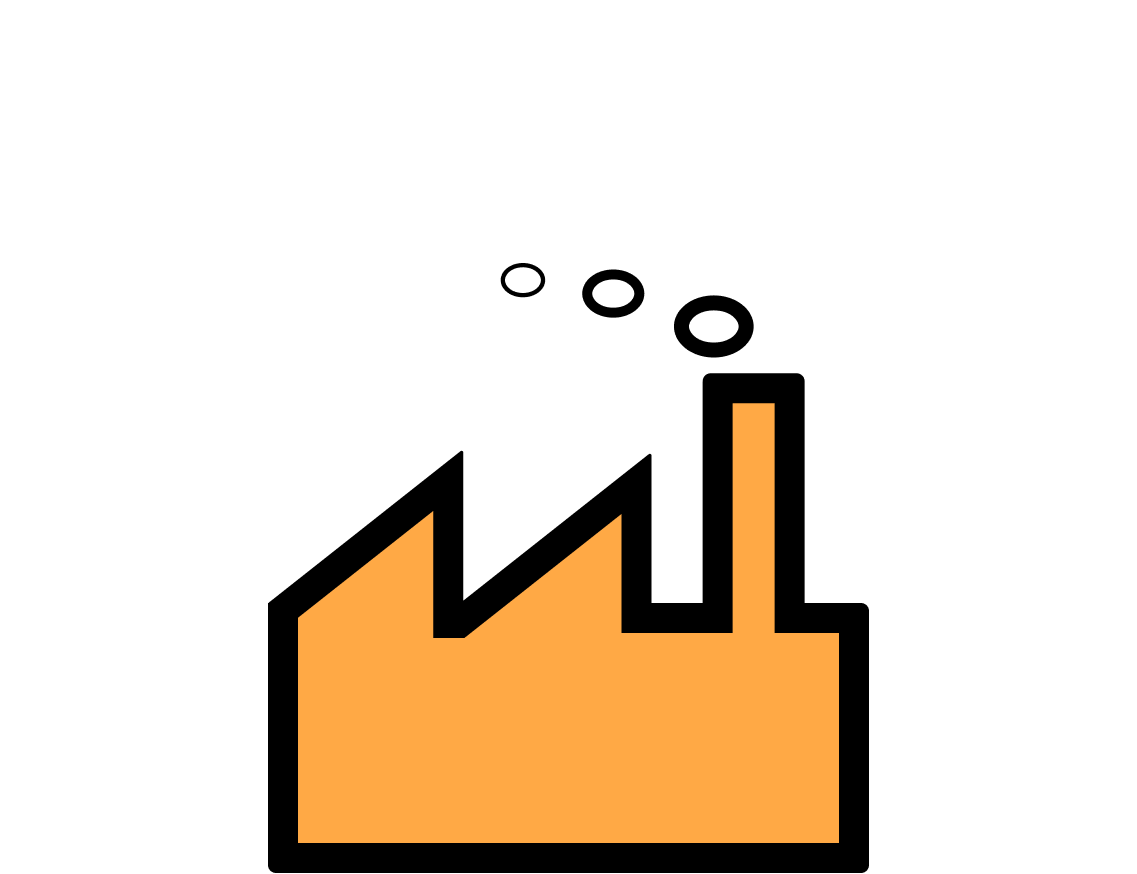
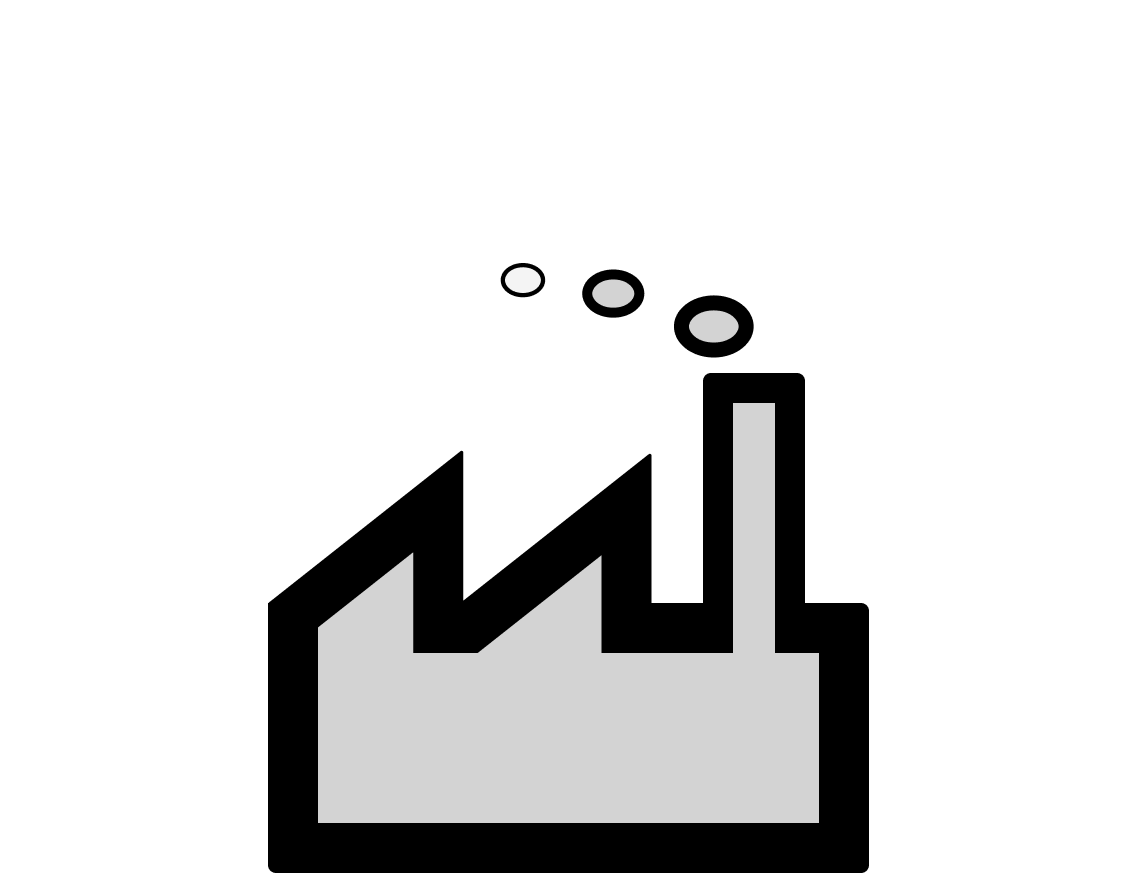
Website v2.0

Changed region(s): [[0.2463, 0.4634, 0.7388, 0.9886], [0.5849, 0.3398, 0.6464, 0.4016], [0.5233, 0.3089, 0.5541, 0.3707]]

diff --git a/index.html b/index.html
@@ -81,106 +81,73 @@
         </div>
     </div>
 </div>
-    <div class="examples">
+    <div class="examples bottom-padding">
         <div class="center-text">
             <h3 style="padding-top: 1.25vw;">Let's see this by comparing a few products.</h3>
         </div>
         <div class="image-container" style="margin-top: 5vw;">
-            <img src="Product Photos/Beef Image.jpeg" alt="Beef Image" style="min-width: 270px; max-width: 60%; border-radius: 10px;">
+            <img src="Product Photos/Slaughterhouse.jpeg" alt="Beef Image" style="min-width: 270px; max-width: 60%; border-radius: 10px;">
             <div class="central-text">
                 <h5><mark>&nbsp;&nbsp;Beef&nbsp;&nbsp;</mark></h5>
             </div>
         </div>
             <div class="product-grid-container">
-                <div class="gray-background">
-                    <div class="center-image">
-                        <img src="Compressed Icons/Factory Compressed.png" alt="Factory Icon" width="100%">
-                    </div>
-                    <div class="center-text">
-                        <h4>Greenhouse Gas Emissions</h4>
-                    </div>
-                    <p style="margin-left: 15px;">Beef production is the largest source of greenhouse gas emissions.<br><br>
+				<div class="dropdown">
+					<button class="dropbtn" style="border-radius: 10px 0px 0px 0px;">
+						<div class="center-image">
+                        	<img src="Compressed Icons/Factory Compressed.png" alt="Factory Icon" width="100%">
+                    	</div>
+                    	<div class="center-text">
+                        	<h4>Carbon Emissions</h4>
+                   		</div>
+					</button>
+					<div class="dropdown-content">
+                    	<p style="margin-left: 15px;">Beef production is the largest source of greenhouse gas emissions.<br><br>
                         Every kilogram of beef produced creates greenhouse gasses equivalent to 99.48 kg of CO<sub>2</sub>.</p>
-                </div>
-                <div class="gray-background">
-                    <div class="center-image">
-                        <img src="Compressed Icons/Water Compressed.png" alt="Water Icon" width="100%">
-                    </div>
-                    <div class="center-text">
-                        <h4>Water Consumption</h4>
-                    </div>
-                    <p style="margin-left: 15px;">It takes about 1800 gallons of water to produce 1 pound of beef.</p>
-                </div>
-                <div class="gray-background">
-                    <div class="center-image">
-                        <img src="Compressed Icons/Farm Compressed.png" alt="Farm Icon" width="100%">
-                    </div>
-                    <div class="center-text">
-                        <h4>Land Efficiency</h4>
-                    </div>
-                    <p style="margin-left: 15px;">Beef production is the largest land user per unit output of all livestock products.<br><br>
+					</div>
+				</div>
+				<div class="dropdown">
+					<button class = "dropbtn">
+                    	<div class="center-image">
+                        	<img src="Compressed Icons/Water Compressed.png" alt="Water Icon" width="100%">
+                    	</div>
+                    	<div class="center-text">
+                        	<h4>Water Consumption</h4>
+                    	</div>
+					</button>
+                	<div class="dropdown-content">
+                    	<p style="margin-left: 15px;">It takes about 1800 gallons of water to produce 1 pound of beef.</p>
+                	</div>
+				</div>
+                <div class="dropdown">
+					<button class = "dropbtn">
+                    	<div class="center-image">
+                        	<img src="Compressed Icons/Farm Compressed.png" alt="Farm Icon" width="100%">
+                    	</div>
+                    	<div class="center-text">
+                        	<h4>Land Efficiency</h4>
+                    	</div>
+					</button>
+					<div class = "dropdown-content">
+                    	<p style="margin-left: 15px;">Beef production is the largest land user per unit output of all livestock products.<br><br>
                         Beef production uses about 60% of the world's agricultural land, but beef only makes up about 2% of the world's calories.<br><br>
                         It takes about 100 times more land to produce a kilocalorie of beef than plant-based alternatives. It takes 16 pounds of grain to make one pound of beef.<br><br>
                         Beef production efficiency has improved in the past 50 years. In the US, the same amount of beef is produced with 67% of the land.</p>
-                </div>
-                <div class="gray-background">
-                    <div class="center-image">
-                        <img src="Compressed Icons/Leaf Compressed.png" alt="Leaf Icon" width="100%">
-                    </div>
-                    <div class="center-text">
-                        <h4>Biodiversity Impact</h4>
-                    </div>
-                    <p style="margin-left: 15px;">Livestock production—primarily cows—produces 14.5 percent of global greenhouse gas emissions.</p>
-                </div>
-            </div>
-            <div class="image-container" style="margin-top: 5vw;">
-                <img src="Product Photos/Plastic Bottles Image.jpeg" alt="Plastic Bottle Image" style="min-width: 270px; max-width: 60%; border-radius: 10px;">
-                <div class="central-text">
-                    <h5><mark>&nbsp;&nbsp;Plastic&nbsp;&nbsp;</mark></h5>
-                </div>
-            </div>
-            <div class="product-grid-container">
-                <div class="gray-background">
-                    <div class="center-image">
-                        <img src="Compressed Icons/Factory Compressed.png" alt="Factory Icon" width="100%">
-                    </div>
-                    <div class="center-text">
-                        <h4>Greenhouse Gas Emissions</h4>
-                    </div>
-                    <p style="margin-left: 15px;">Since the world emits around 54.6 billion tonnes of CO<sub>2</sub>, plastics were responsible for around 3.3% of global emissions.<br><br>
-                        Burning plastic emits 2.9 kg of CO2e for every kg of plastic burned.</p>
-                </div>
-                <div class="gray-background">
-                    <div class="center-image">
-                        <img src="Compressed Icons/Water Compressed.png" alt="Water Icon" width="100%">
-                    </div>
-                    <div class="center-text">
-                        <h4>Water Consumption</h4>
-                    </div>
-                    <p style="margin-left: 15px;">It takes about 1.4 gallons (5.3 liters) of water to produce a typical single-use water bottle.<br><br>
-                        With billions of tons of PET plastic produced worldwide, the total water footprint for PET plastic amounts to a staggering 91.8 billion cubic meters.</p>
-                </div>
-                <div class="gray-background">
-                    <div class="center-image">
-                        <img src="Compressed Icons/Farm Compressed.png" alt="Farm Icon" width="100%">
-                    </div>
-                    <div class="center-text">
-                        <h4>Land Efficiency</h4>
-                    </div>
-                    <p style="margin-left: 15px;">The average landfill size is 600 acres.<br><br>
-                        With over 3,000 active landfills in the United States, as much as 1,800,000 acres of habitat have been lost.</p>
-                </div>
-                <div class="gray-background">
-                    <div class="center-image">
-                        <img src="Compressed Icons/Leaf Compressed.png" alt="Leaf Icon" width="100%">
-                    </div>
-                    <div class="center-text">
-                        <h4>Biodiversity Impact</h4>
-                    </div>
-                    <p style="margin-left: 15px;">Lying between California and Hawaii, the Great Pacific Garbage Patch is three times the size of France
-                         and is the world's biggest ocean waste repository, with 1.8 billion pieces of floating plastic which kill thousands of marine animals each year.<br><br>
-                        The GPGP covers an estimated surface area of 1.6 million square kilometers, an area twice the size of Texas or three times the size of France. </p>
-                </div>
+                	</div>
+				</div>
+                <div class="dropdown">
+					<button class = "dropbtn" style="border-radius: 0px 10px 0px 0px;">
+                    	<div class="center-image">
+                        	<img src="Compressed Icons/Leaf Compressed.png" alt="Leaf Icon" width="100%">
+                    	</div>
+                   	 	<div class="center-text">
+                        	<h4>Biodiversity Impact</h4>
+                    	</div>
+					</button>
+					<div class = "dropdown-content">
+                    	<p style="margin-left: 15px;">Livestock production—primarily cows—produces 14.5 percent of global greenhouse gas emissions.</p>
+                	</div>
+				</div>
             </div>
             <div class="image-container" style="margin-top: 5vw;">
                 <img src="Product Photos/Fishing Boat Image.jpeg" alt="Fishing Boat Image" style="min-width: 270px; max-width: 60%; border-radius: 10px;">
@@ -189,75 +156,91 @@
                 </div>
             </div>
             <div class="product-grid-container">
-                <div class="gray-background">
-                    <div class="center-image">
-                        <img src="Compressed Icons/Factory Compressed.png" alt="Factory Icon" width="100%">
-                    </div>
-                    <div class="center-text">
-                        <h4>Greenhouse Gas Emissions</h4>
-                    </div>
-                    <p style="margin-left: 15px;">The fishing industry is making the ocean more vulnerable to climate change and less capable of mitigating its effects.<br><br>
-                        Fishing vessels also emit a lot of greenhouse gases by burning fuel to power their engines and drag their massive nets.<br><br>This is especially true for supertrawlers, the behemoths of the fishing fleet.</p>
+                <div class="dropdown">
+					<button class = "dropbtn" style="border-radius: 10px 0px 0px 0px;">
+						<div class="center-image">
+							<img src="Compressed Icons/Factory Compressed.png" alt="Factory Icon" width="100%">
+						</div>
+						<div class="center-text">
+							<h4>Fuel Emissions</h4>
+						</div>
+					</button>
+					<div class = "dropdown-content">
+						<p style="margin-left: 15px;">The fishing industry is making the ocean more vulnerable to climate change and less capable of mitigating its effects.<br><br>
+							Fishing vessels also emit a lot of greenhouse gases by burning fuel to power their engines and drag their massive nets.<br><br>This is especially true for supertrawlers, the behemoths of the fishing fleet.</p>
+					</div>
+				</div>
+                <div class="dropdown">
+					<button class = "dropbtn">
+						<div class="center-image">
+							<img src="Compressed Icons/Water Compressed.png" alt="Water Icon" width="100%">
+						</div>
+						<div class="center-text">
+							<h4>Water Consumption</h4>
+						</div>
+					</button>
+					<div class = "dropdown-content">
+                    	<p style="margin-left: 15px;">The fishing industry uses a lot of water. Here's some information about water use in the fishing industry: </p>
+						<ul>
+							<li>
+								<em class = "spacing">Seafood Processing:</em>
+							  <p class="spacing">2–12 cubic mete of water per ton of seafood</p>
+                            </li>
+							<li>
+								<em class = "spacing">Fish Farming:</em>
+								<p> 8 tons of water per ton of fish</p>
+							</li>
+							<li>
+								<em class = "spacing">Shrimp Production:</em>
+								<p>Up to ten times more water than fish</p>
+							</li>
+							<li>
+								<em>Conventional Land-Based Ponds:</em>
+								<p>45,000 liters per kilogram of fish</p>
+							</li>
+							<li>
+								<em>Intensive Pond Agriculture</em>
+								<p>2,700 liters per kilogram of fish</p>
+							</li>
+							<li>
+								<em>Raceways Without Mechanical Aeration</em>
+								<p>Up to 100 cubic meters per kilogram of fish</p>
+							</li>
+							<li>
+								<em>Brine for Smoking Salmon:</em>
+								<p>20 gallons of brine at 15.8% salt</p>
+							</li>
+						</ul>
+					</div>
                 </div>
-                <div class="gray-background">
-                    <div class="center-image">
-                        <img src="Compressed Icons/Water Compressed.png" alt="Water Icon" width="100%">
-                    </div>
-                    <div class="center-text">
-                        <h4>Water Consumption</h4>
-                    </div>
-                    <p style="margin-left: 15px;">The fishing industry uses a lot of water. Here's some information about water use in the fishing industry: </p>
-                    <ul>
-                        <li>
-                            <em>Seafood Processing:</em>
-                            <p>2–12 cubic meters of water per ton of seafood</p>
-                        </li>
-                        <li>
-                            <em>Fish Farming:</em>
-                            <p> 8 tons of water per ton of fish</p>
-                        </li>
-                        <li>
-                            <em>Shrimp Production:</em>
-                            <p>Up to ten times more water than fish</p>
-                        </li>
-                        <li>
-                            <em>Conventional Land-Based Ponds:</em>
-                            <p>45,000 liters per kilogram of fish</p>
-                        </li>
-                        <li>
-                            <em>Intensive Pond Agriculture</em>
-                            <p>2,700 liters per kilogram of fish</p>
-                        </li>
-                        <li>
-                            <em>Raceways Without Mechanical Aeration</em>
-                            <p>Up to 100 cubic meters per kilogram of fish</p>
-                        </li>
-                        <li>
-                            <em>Brine for Smoking Salmon:</em>
-                            <p>20 gallons of brine at 15.8% salt</p>
-                        </li>
-                    </ul>
-                </div>
-                <div class="gray-background">
-                    <div class="center-image">
-                        <img src="Compressed Icons/Farm Compressed.png" alt="Farm Icon" width="100%">
-                    </div>
-                    <div class="center-text">
-                        <h4>Land Efficiency</h4>
-                    </div>
-                    <p style="margin-left: 15px;">Fish farming is typically more land efficient than beef production.</p>
-                </div>
-                <div class="gray-background">
-                    <div class="center-image">
-                        <img src="Compressed Icons/Leaf Compressed.png" alt="Leaf Icon" width="100%">
-                    </div>
-                    <div class="center-text">
-                        <h4>Biodiversity Impact</h4>
-                    </div>
-                    <p style="margin-left: 15px;">When too many fish are taken out of the ocean it creates an imbalance
-                         that can erode the food web and lead to a loss of other important marine life, including
-                          vulnerable species like sea turtles and corals.</p>
-                </div>
+                <div class="dropdown">
+					<button class = "dropbtn">
+						<div class="center-image">
+							<img src="Compressed Icons/Farm Compressed.png" alt="Farm Icon" width="100%">
+						</div>
+                    	<div class="center-text">
+                        	<h4>Land Efficiency</h4>
+                    	</div>
+					</button>
+					<div class = "dropdown-content">
+                    	<p style="margin-left: 15px;">Fish farming is typically more land efficient than beef production.</p>
+                	</div>
+				</div>
+                <div class="dropdown">
+					<button class="dropbtn" style="border-radius: 0px 10px 0px 0px;">
+						<div class="center-image">
+							<img src="Compressed Icons/Leaf Compressed.png" alt="Leaf Icon" width="100%">
+						</div>
+						<div class="center-text">
+							<h4>Biodiversity Impact</h4>
+						</div>
+					</button>
+					<div class = "dropdown-content">
+						<p style="margin-left: 15px;">When too many fish are taken out of the ocean it creates an imbalance
+							 that can erode the food web and lead to a loss of other important marine life, including
+							  vulnerable species like sea turtles and corals.</p>
+					</div>
+				</div>
             </div>
     </div>
 </body>

diff --git a/styles.css b/styles.css
@@ -92,6 +92,8 @@ mark {
     vertical-align: middle;
     text-align: left;
     justify-content: space-evenly;
+	position:relative;
+	
 }
 
 .drop-shadow {
@@ -163,8 +165,52 @@ mark {
     to { bottom : 0; opacity : 1 }
 }
 
-.gray-background {
+
+.dropbtn {
+  background-color: #005944;
+  color: white;
+  padding: 16px;
+  font-size: 16px;
+  border: 0px;
+  
+}
+
+/* The container <div> - needed to position the dropdown content */
+.dropdown {
+  position: relative;
+  display: inline-block;
+  border-radius: 10px;
+}
+
+/* Dropdown Content (Hidden by Default) */
+.dropdown-content {
+  display: none;
+  position: absolute;
+  min-width: 160px;
+  box-shadow: 0px 8px 16px 0px rgba(0,0,0,0.2);
+  z-index: 1;
+}
+
+/* Links inside the dropdown */
+.dropdown-content p {
+  color: black;
+  padding: 12px 16px;
+  text-decoration: none;
+  display: block;
+}
+
+.bottom-padding{
+	margin-bottom: 35%;
+}
+
+/* Show the dropdown menu on hover */
+.dropdown:hover .dropdown-content {
+    display: block;
+    border-radius: 0px 0px 10px 10px;
     background-color: #d3d3d3;
-    border: 2px solid white;
-    border-radius: 10px;
+}
+
+/* Change the background color of the dropdown button when the dropdown content is shown */
+.dropdown:hover .dropbtn {
+    background-color: #01AB55;
 }
